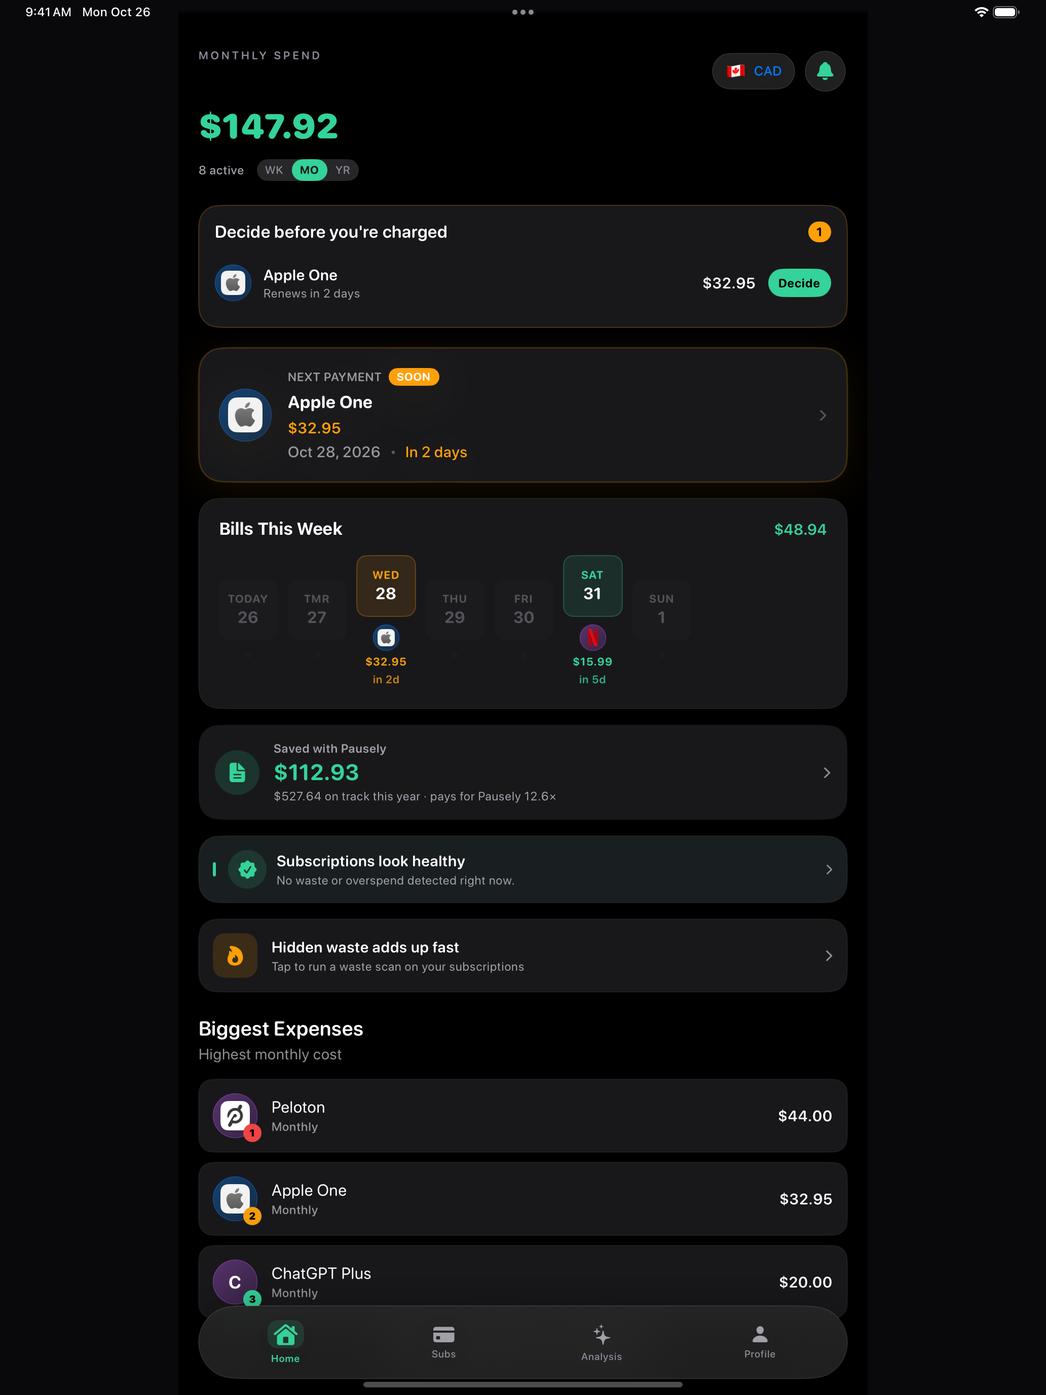
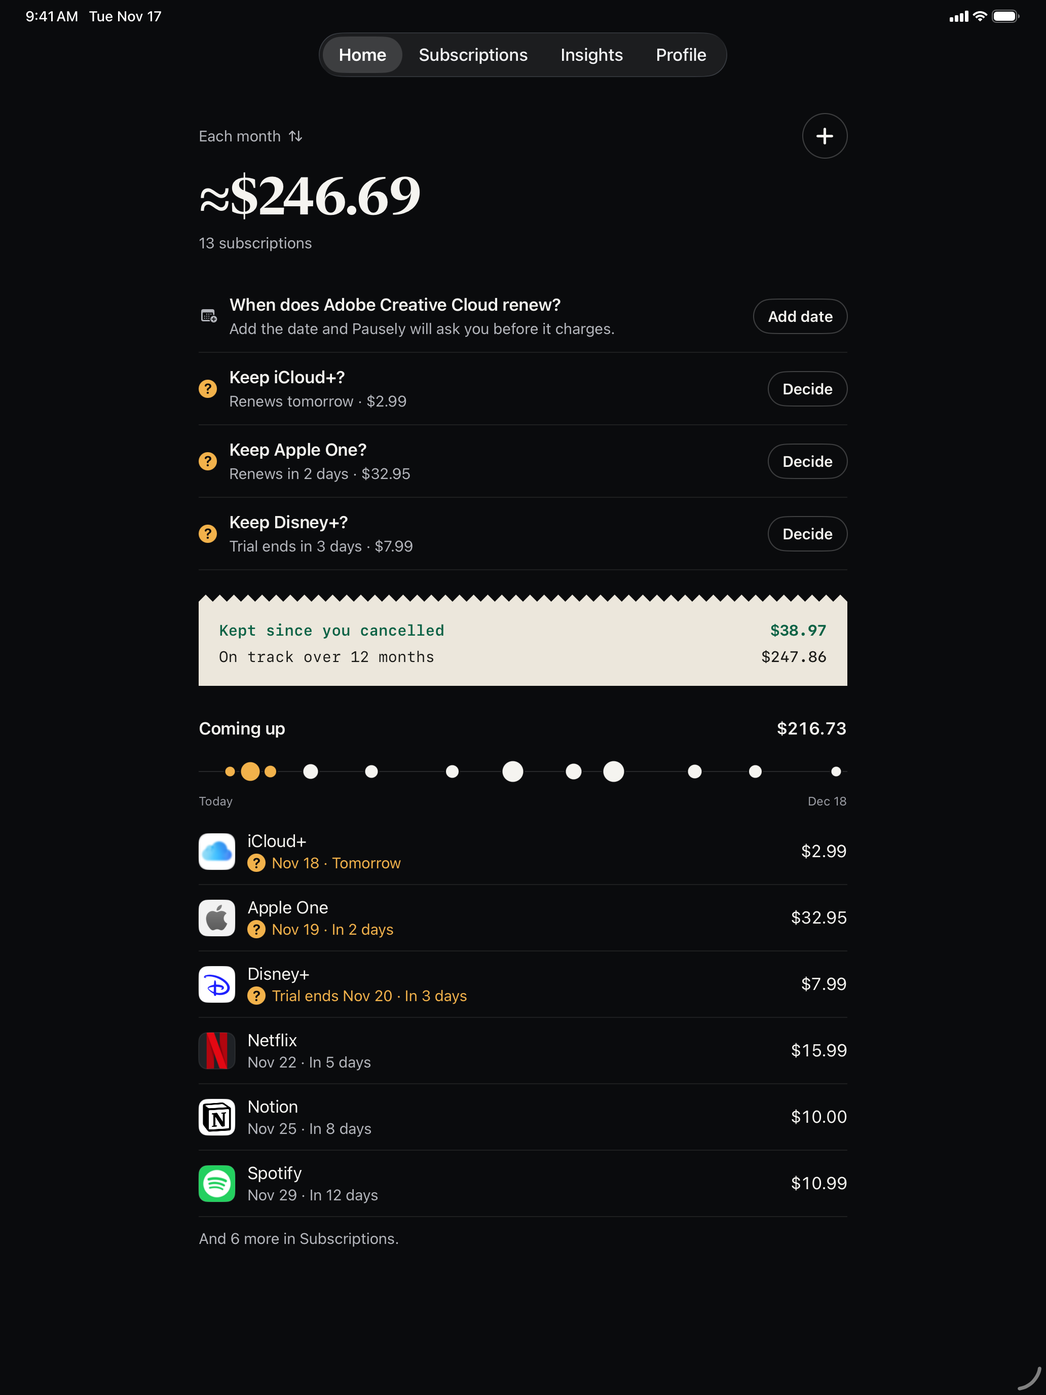
The sixteen pictures for the App Store are of the app as it is: one capture test takes them, and a capture run shows nothing the release build lacks

diff --git a/PauselyTests/Services/StoreListingTests.swift b/PauselyTests/Services/StoreListingTests.swift
@@ -173,4 +173,34 @@ final class StoreListingTests: XCTestCase {
             }
         }
     }
+
+    /// The eight pictures on the listing are captures of a debug build, which has what the
+    /// release build has not: finding subscriptions in email. A capture run (`--screenshots`)
+    /// switches that off, so no picture shows a way in that a customer will not find; the tour's
+    /// capture test takes every picture in such a run, of one list. (The pictures in the
+    /// repository until 2026-11-17 were of the design before this one.)
+    func testAPictureForTheStoreShowsOnlyWhatTheReleaseBuildShows() throws {
+        // Unit tests are not a capture run: in a debug build the features are there to be tested.
+        #if DEBUG
+        XCTAssertFalse(LaunchFlag.screenshots.isSet)
+        XCTAssertTrue(FeatureFlags.inboxImportEnabled)
+        #endif
+        let flags = try String(contentsOf: root.appendingPathComponent("Pausely/Core/FeatureFlags.swift"), encoding: .utf8)
+        XCTAssertTrue(flags.contains("#if DEBUG\n        return !LaunchFlag.screenshots.isSet\n        #else\n        return false\n        #endif"))
+        for flag in ["gmailImportEnabled", "microsoftImportEnabled", "imapImportEnabled"] {
+            XCTAssertTrue(flags.contains("static let \(flag) = onInDebugBuilds"), flag)
+        }
+        let tour = try String(contentsOf: root.appendingPathComponent("PauselyUITests/ScreenTourTests.swift"), encoding: .utf8)
+        let capture = try XCTUnwrap(tour.range(of: "func testStoreScreenshots() throws {"))
+        let body = String(tour[capture.upperBound...].prefix(1400))
+        XCTAssertTrue(body.contains("[\"--uitesting\", \"--demo-mode\", \"--screenshots\", \"--varied-demo-data\"] + screen.flags"))
+        // And the pictures are the eight the listing has places for, on both devices.
+        let names = ["01_verdict", "02_dashboard", "03_receipt", "04_pauseplan", "05_subscription", "06_analysis", "07_catalog", "08_wrapped"]
+        for name in names { XCTAssertTrue(body.contains("\"\(name)\""), name) }
+        for device in ["iphone-6.9", "ipad-13"] {
+            let folder = root.appendingPathComponent("AppStoreScreenshots/\(device)")
+            let files = try FileManager.default.contentsOfDirectory(atPath: folder.path).filter { $0.hasSuffix(".png") }.sorted()
+            XCTAssertEqual(files, names.map { $0 + ".png" }, device)
+        }
+    }
 }

diff --git a/PauselyUITests/ScreenTourTests.swift b/PauselyUITests/ScreenTourTests.swift
@@ -212,6 +212,35 @@ final class ScreenTourTests: XCTestCase {
     /// "Keep my list" is the end of the page at the largest text size.
     private static let followedToTheEnd: Set<String> = ["inbox-results", "reveal-good"]
 
+    /// The eight App Store captures, as files named the way `AppStoreScreenshots/` holds them.
+    /// Run on the 6.9-inch iPhone and the 13-inch iPad with `PAUSELY_TOUR_DIR` set, then copy the
+    /// eight files over. Every screen is of one list (the varied one), so the figures on one
+    /// capture are the figures on the next, and each is launched with `--screenshots`: no
+    /// one-time permission card, and no feature the release build does not have. The formats are
+    /// Canada's, as the listing's first captures were; the clock is set from outside
+    /// (`xcrun simctl status_bar <device> override --time 9:41 …`) once the simulator is up.
+    func testStoreScreenshots() throws {
+        let screens: [(flags: [String], file: String)] = [
+            (["--demo-verdict=Netflix"], "01_verdict"),
+            (["--demo-tab=0"], "02_dashboard"),
+            (["--demo-receipt=plain"], "03_receipt"),
+            (["--demo-pause-plan"], "04_pauseplan"),
+            (["--demo-subscription=Netflix"], "05_subscription"),
+            (["--demo-tab=2"], "06_analysis"),
+            (["--demo-browser"], "07_catalog"),
+            (["--demo-wrapped=list"], "08_wrapped"),
+        ]
+        for screen in screens where wanted(screen.file) {
+            let app = XCUIApplication()
+            app.launchArguments = ["--uitesting", "--demo-mode", "--screenshots", "--varied-demo-data"] + screen.flags
+                + ["-AppleLanguages", "(en)", "-AppleLocale", "en_CA"]
+            app.launch()
+            sleep(4)
+            let png = XCUIScreen.main.screenshot().pngRepresentation
+            try png.write(to: outputDir.appendingPathComponent(screen.file + ".png"))
+        }
+    }
+
     /// States no launch argument opens by itself: rows that depend on what is in the list, dialogs, a
     /// search with no match, the sheets behind a row. Each is opened here and captured like a screen.
     /// Nothing here reaches the network: sign-in, codes and purchases are left to their own tests.

diff --git a/Pausely/Core/FeatureFlags.swift b/Pausely/Core/FeatureFlags.swift
@@ -6,33 +6,26 @@ enum FeatureFlags {
     /// Until that arrives, release builds hide every entry point (an App Review tester would hit Google's
     /// "unverified app" wall). Debug builds keep it on for development and the demo launch flags.
     /// To ship it: set this to `true` once Google has approved the app.
-    static let gmailImportEnabled: Bool = {
-        #if DEBUG
-        return true
-        #else
-        return false
-        #endif
-    }()
+    static let gmailImportEnabled = onInDebugBuilds
 
     /// Outlook, Hotmail, Live, MSN and Microsoft 365 through Microsoft Graph. Needs the app registration's
     /// client id (Info.plist MS_CLIENT_ID). Release builds stay off until real-account checks pass.
-    static let microsoftImportEnabled: Bool = {
-        #if DEBUG
-        return true
-        #else
-        return false
-        #endif
-    }()
+    static let microsoftImportEnabled = onInDebugBuilds
 
     /// iCloud, Yahoo, AOL, Gmail (app password), GMX, WEB.DE, Zoho, Fastmail and other IMAP inboxes.
     /// Release builds stay off until real-account checks pass.
-    static let imapImportEnabled: Bool = {
+    static let imapImportEnabled = onInDebugBuilds
+
+    /// On in debug builds, for development and the demo launch flags; off in release. Off in a
+    /// debug build too while App Store captures are taken (`--screenshots`): a capture shows what
+    /// the release build shows, and nothing it lacks.
+    private static var onInDebugBuilds: Bool {
         #if DEBUG
-        return true
+        return !LaunchFlag.screenshots.isSet
         #else
         return false
         #endif
-    }()
+    }
 
     /// Any way of finding subscriptions in email is available.
     static var inboxImportEnabled: Bool { gmailImportEnabled || microsoftImportEnabled || imapImportEnabled }

diff --git a/GOLD_STANDARD.md b/GOLD_STANDARD.md
@@ -1101,6 +1101,11 @@ Updated at every commit, so the work can be picked up from this file alone.
   from now on are a new install's too.
   Next, in order: the store captures into the repository; three serial runs, Release, the
   rigs; H written up; section 7.
+- **11-17 early morning, the store pictures (this commit).** Row opened and closed in 6.5.
+  The sixteen files in `AppStoreScreenshots/` are replaced; nothing was sent to App Store
+  Connect.
+  Next, in order: three serial runs, Release, the UI tests, the mail rig, the database
+  rigs; one more English tour with the audit on this build; H written up; section 7.
 
 **Phase 0. Scan (read-only).** Four independent audits (dead code, truth, design rules on every
 view, engineering) plus mechanical scans. Output: the ledger.
@@ -1400,6 +1405,7 @@ and limits) is O37 and nothing else was found.
 | In a mailbox's results each row chose by the width of its own price whether the price sat beside the words or under them: in German, Spanish, French and Arabic "34,99 CA$" went under and "9,99 CA$" stayed beside, row by row, and the prices formed no column (seen 11-16 on the Arabic states and on the German, Spanish and French tours) | closed 11-16. Every row sets its price over a copy of the page's widest price that is not drawn (`FoundRow.widestPrice`, passed by the page from everything found), so the column is as wide in every row; a column wider than its share goes under the words in every row, a short name included (`LineOrStack.stacksWideValue`). A cancelled row keeps the box's place empty, so its logo lines up with the rows above and it has the same width for its price. Held by `testEveryFoundRowKeepsTheSamePriceColumn` (by its own width three German prices chose stack, beside, stack; with one column all three stack, and a column within its share stays beside for all). **Seen** (`/tmp/pausely_col1_en`, `_de`, `_ar`, `_es`, sheets `col1`, `col1b`, the page followed to its end): English, every price beside its words in one column; German, Spanish and Arabic, every price under its words; the cancelled row in line with the rest in all four. 810 unit tests, 0 failures (7 skipped need a mail server); `gold_check` 0 |
 | Profile → Privacy & security makes four statements, and no test tied any of them to the build (found 11-16 on the sceptic's walk; the website's policy had such tests, the page in the app had none) | closed 11-17: `PrivacyPageTests`, four tests. **The list is sent encrypted, kept encrypted, and read by its owner only:** one server address, https in both configurations, on the host whose own statement the sentence repeats (supabase.com/security, read 11-16: "All customer data is encrypted at rest with AES-256 and in transit via TLS"), no exception to App Transport Security in the project, and the six checks of the database rig that the sentence leans on, by name. **History, the receipt and the plan stay on the device:** the only tables the app names are `subscriptions` and `profiles`, the only call `delete_my_account`, the only function `apple-revoke`; the history and the plan are files written through the one place that sets their protection, and nothing lowers a file's protection to none. **Find in Email** is said only where the feature is. **No ad or tracking SDKs:** the seven packages the app is built with, by name (the database client and what it is built on), and every framework any source file imports (Apple's own and that client): a new package or framework fails the test until it is named there. 810 unit tests, 0 failures (7 skipped need a mail server) |
 | Two wordings a native reader would have caught, found by reading the Spanish and French tours (11-16). On the Savings Receipt: "Résilié le 2 nov. 2026 · 1 prélèvements évités sur 12" (two figures beside a noun need a plural pair in every language, and the line had none; a yearly plan read "1 of 1 charges" in English). On the Notifications page in Spanish: "Actívalas" for "los recordatorios" | closed 11-17. The receipt gives each cancellation three lines of the roll: "Cancelled on Nov 2, 2026", "Charges avoided so far: 1 of 12" (what is counted, then the count, which no language has to bend), "Next avoided charge: …". Joined by a dot, the first two were too long for the roll in every language and broke wherever the line ran out, so they are two lines at every size. Held by `testTheReceiptsCountIsALabelThenANumber` (in the six languages both figures come after the colon, none before a noun). Spanish reads "Actívalos"; every Spanish sentence about reminders was read again and agrees. **Seen** (`/tmp/pausely_rc2_en`, `_fr`, `_ar`, `_big`, `_ipad`, sheet `rc2`; `/tmp/pausely_rc1_es` for the Notifications page, sheet `rc1`): the three lines in English, French ("Prélèvements évités à ce jour : 1 sur 12"), Arabic, at the largest size and on iPad; "Actívalos para que las renovaciones nunca te sorprendan." The catalog was searched for every other counted sentence without plural forms (24): each is a label and a number, a fixed figure, or "n of m" with no noun. 811 unit tests, 0 failures (7 skipped need a mail server); `gold_check` 0; `string_usage` 0 |
+| The sixteen pictures for the App Store in the repository were of the design before this one (mint totals, "Subscription Health 80/100", "Free alternative: Tubi", "443 coffees", "Search 1,000+ services"): they showed four things the app no longer has. Found 11-17, opening them for stage I | closed 11-17 in the repository; sending them to App Store Connect is the owner's step. `ScreenTourTests/testStoreScreenshots` takes the eight on any simulator: the verdict with hours typed in, Home, the Savings Receipt, Pause Plan, a subscription's page, Insights, the catalog, the year. All eight are of one list (13 subscriptions, ≈$246.69 a month, $38.97 kept), in Canada's formats, each launched with `--screenshots`. A capture run switches off what the release build does not have (`FeatureFlags`, off under `--screenshots` in a debug build), so the catalog's picture has no "Find in Email" row. Held by `testAPictureForTheStoreShowsOnlyWhatTheReleaseBuildShows` (the flags, the capture test's launch, and the eight file names on both devices). **Taken and opened** (sheets `store4i`, `store4p`): iPhone 17 Pro Max, 1320 by 2868; iPad Pro 13-inch (M5), 2064 by 2752 (the M4 simulator here is on iOS 18.0 and cannot take this build's test runner); the clock at 9:41; each device after a first pass that fetched the logos, the iPad's month-old logo cache moved aside first, so both show what a new install in Canada shows (Hulu is a letter there: its site sends a visitor from Canada to another company's page). 813 unit tests, 0 failures |
 | On a simulator that had never run the app, the first screen that shows logos showed a letter for YouTube Premium, Google One and PlayStation Plus, and the catalog for Notion, Hulu and Duolingo (found 11-17 taking the store captures on a new simulator; the simulators the tours use had those icons on disk from before 11-11, when a lookup service was still asked). Their sites keep no icon at the three usual addresses | closed 11-17 for what the services' own sites allow. The table of sites carries, for six services, the address where the site keeps its icon (`ServiceDomains.iconAddresses`: YouTube, Google, PlayStation, Discord, Notion, Duolingo), each asked for and answered with an image of 128 pixels or more on 11-17, and asked first. Five are on the service's own domain; Duolingo's is the host its own front page names for its touch icon, listed as the one exception (`assetHosts`). Notion's site is notion.com now. Held by `testAnIconKeptElsewhereIsAskedForFirstAndOnlyOnTheServicesOwnSite` (https; on the service's domain or its named host; first of four sources), and by the app itself: an address in the table that is not on the service's own site is never asked (`ServiceDomains.isOwnSite`, the same rule the test reads). **Seen on the new simulator** (`/tmp/pausely_fresh2`, sheet `fresh2`; its cache folder lists what was fetched): the fifteen first-run tiles on the first screen all have their logo; of the twenty-two, nineteen do. **Still a letter, and why:** Crunchyroll (its site refuses anything that is not a browser), Dropbox (a 32-pixel favicon only), and from Canada Hulu and Peacock (their sites send a visitor here to another company's page or to "unavailable"). The letter is what the app shows by design where a site has no usable icon; bundling those logos in the app is the owner's call (6.7). 813 unit tests, 0 failures before Duolingo was added; the three classes that touch it green after |
 | Per-file findings (colour, type, layout, Dynamic Type, right to left, VoiceOver, motion, haptics, states) in `ui.md`, about 280 of them | closed 11-12, each finding looked up in today's code. **Already held by a script or a test from earlier slices:** colours outside the palette, fixed font sizes, numeric radii, raw animation curves and left/right (lints in `gold_check`), formats in another locale, plural forms, one name per thing, sentence case, "iPhone" on iPad, one way to leave, Reduce Motion, the state mark that did not grow, strings that were English only, raw errors in the edit form; the widgets were rebuilt (S15) and the Live Activity, the in-app policies, the rating sheet and the deep analysis no longer exist. **Found still open and fixed in this slice:** Home had no header for VoiceOver, a 32-point switch, a line that could only be dragged (it is stepped with VoiceOver now, `testTheLineCanBeSteppedOneChargeDayAtATime`, and is a fingertip tall), rows that dimmed to under 3 to 1, a loading label attached to nothing, and "Nothing on your list yet." after a fetch that failed (`testAListThatCouldNotLoadIsNotCalledEmpty`; the three tabs share the loading and could-not-load parts); list rows were tap gestures with no press (buttons now, and they tick like Home's); three search fields became one part and two no-match sentences one; the catalog offers only categories that hold a service; four copies of the problem line and three bare coral lines became `ProblemLine`; the add form put a system alert titled "Error" where the edit form says what is missing; its amount question vanished for four billing cycles; four negative paddings; eighteen spacings off the 2-point grid (now a lint); the pause mark drawn five times in three proportions; the shared pictures drawn outside the app's language and direction (`testASharedPictureIsDrawnInTheAppsLanguage`) and re-drawn on every pass; "Rate Pausely" asked iOS for a prompt it rarely shows (`testRatePauselyOpensTheReviewForm`); VoiceOver hints that said "double tap"; first-run slip lines 28 points tall, a price sheet with no Cancel, tiles that did not say the price they add; an address cut in the middle (`testAnAddressBreaksOnlyWhereItsPartsMeet`); a resend timer that ticked for ever (`testTheResendLineStopsTickingWhenTheWaitIsOver`); reset and new-password fields with no name above them; "Done" on a page that saves with its own button; "Cost over time" not said to be at today's price; a bar of the billing period that helped nobody decide (removed with `CancelTimingCalculator`); the Pause Plan row on Insights (an icon in a circle, caption-size words, its own indent) rebuilt; the feature's name under its description on the subscription screen; a price drop printed in mint; the torn half of a slip placed by a fixed number; two sentences joined with a space in Japanese (`testSentencesAreJoinedAsTheLanguageWritesThem`). **Kept as they are, with the reason:** the serif sets a slip's question and the price it is about (one unit), and each screen's name; what is printed on a slip is in the slip's face, sentences included; a list of destinations has a symbol per row (Profile, a subscription's tools) and a list of values has none; an underline marks a text link, the one way a link is marked; a caption directly under a full-width button is centred with it; an amount shrinks before it breaks; pickers, date pickers, switches and the alerts for a purchase and for deleting an account are left as iOS draws them; a button that opens a page does not tick, a row or a choice does; the verdict keeps both "Close" (where every screen's way out is) and "Decide later" (the third answer); the stamp is in capitals; a short sheet over a screen is raised grey so its edge can be seen; Pause Plan's estimate and the cost per hour are on paper because both are sums of the person's own figures, and the estimate says "about" and what it assumes; the yearly plan is chosen first and its charge is the largest price on the slip. **In Find in Email (which the release build does not show) the same pass fixed:** the privacy promise was on paper (paper is for money decided or proven); a connected address was cut in the middle; the landing was felt when nothing had landed; a tap on Gmail or Outlook showed nothing until the web sheet came and took a second tap; and the demo's inbox was searched, which wiped the demo's findings, so the tour's "results" capture had been the first page (`testTheDemosInboxIsNeverSearched`). Kept there, with the reason: the system's progress bar in the app's tint; an envelope for "Other email", which has no logo; the mail server's own words after "Couldn't reach the mail server.", because they say what to fix; two counts written as label and number, so that six languages need no plural pair **Found by reading this slice's own captures and its audit (English, 11-12 night):** Apple's audit reported every text inside a `ViewThatFits` as text that cannot grow (85 lines on Profile alone, the subscription's status line, both outcome slips), because the copy it measured is not the one drawn at the next size; all four uses are gone (`LineOrStack`, one layout that puts its parts on a line when they fit and stacks them when they do not; the outcome screen is one scroll view as tall as the screen; `testNoScreenIsBuiltTwiceToSeeWhichFits`, `testPartsShareALineOnlyWhenTheyFit`), and the count on the states captured again went from 110 to 8. The letter that stands in for a logo is drawn, not set as text. An amount being typed is drawn in the largest size that shows all of it (`AmountFit`, `testALongAmountIsDrawnSmallerSoAllOfItShows`). No field is named inside its box (the name was gone at the first letter, and iOS draws it smaller at the largest sizes): the account forms lost their examples, the inbox form gained "Email", "App password", "IMAP server" and "Port" above its boxes, and the password rules are listed under the box from the start (`testAFieldIsNamedAboveItsBoxNotInsideIt`). The price sheet is as tall as its form (344 points left a band of nothing under Save; `testThePriceSheetIsAsTallAsItsForm`). What's New had its margin outside its scroll view. A name field that wraps kept the line count of another text size and left the edit screen's header 67 points too tall (`testAWrappingFieldIsMeasuredAgainWhenTheTextSizeChanges`). At the largest ordinary text size, which no pass had looked at, the paywall's pinned bar held the button, its sentence and three stacked links and covered half the screen; where the button is pinned the links now end the page (`testThePaywallsPinnedBarHoldsOnlyTheButtonAndItsTerms`). On the paywall, with no prices from the App Store, the plans and the slip give way to one sentence and "Try again" (`testThePaywallSaysWhetherItHasPrices`). |
 | The largest ordinary text size (`xxxl`), which no pass had looked at: rows are still side by side there, with a third more text in them | closed 11-12 night for what was read (`/tmp/pausely_states_xxxl_1` to `_xxxl_3`: the verdict and both outcomes, the cancel steps, the receipt, the year slip, Pause Plan, the paywall, the catalog, both add forms, the subscription screen, Home, Subscriptions and Insights with the varied and the large list, Profile, the account forms, the inbox screens, the settings pages); the whole tour at this size is part of E5. **Found and fixed:** a price in a list row broke between its currency and its figure ("IDR" above "8,500,000") on Subscriptions and on Home: the price sits beside the name while it takes no more than half the row and goes under it when it is wider, and it is never squeezed (`LineOrStack`'s label-and-value arrangement, `testAValueKeepsItsPlaceOrGoesUnderItsLabelAndIsNeverSqueezed`); receipt lines whose two halves each broke in the middle ("Most / goes to" beside "Health / & fitness") follow the same rule (an amount keeps its column and the label wraps beside it; a long value goes under its label); a row's second line ended "Nov 24 · In" with "12 days" under it: a date and its distance are kept whole and the line breaks after the dot (`L10n.whole`, `L10n.breakingAfterDots`, `testADateAndItsDistanceBreakOnlyAfterTheDot`); the inbox's found row cut "Last charged Nov 9" to "Last charge…" (it follows the same rule as the list rows now: the price keeps its width eight points from the words, and the words wrap); Pause Plan's slip had one long value ("$11.32 a month on average"): "on average" is part of the label and the figure stands in the amounts' column; the paywall's pinned bar (in the row above). Read again after the fixes at the ordinary size in English and in Arabic (`/tmp/pausely_states_en_13`, `/tmp/pausely_states_ar_3`, `/tmp/pausely_states_row_en`, `_row_xxxl`): the rows are as they were where everything fits, and the layout mirrors in Arabic (the price at the left, the label wrapping at the right) |

diff --git a/CLAUDE.md b/CLAUDE.md
@@ -181,7 +181,7 @@ function against stand-ins. All need Docker (Colima works). A new migration goes
 ## App Store
 
 Listing text in `metadata/` (push with `asc metadata push`), screenshots in
-`AppStoreScreenshots/iphone-6.9` and `AppStoreScreenshots/ipad-13` (captured in the `en_CA` locale), products and review notes in `appstore_products.json`,
+`AppStoreScreenshots/iphone-6.9` and `AppStoreScreenshots/ipad-13` (taken by `ScreenTourTests/testStoreScreenshots` on the 6.9-inch iPhone and the 13-inch iPad simulators, in the `en_CA` locale, with `PAUSELY_TOUR_DIR` set; the clock is set with `xcrun simctl status_bar <device> override --time 9:41`), products and review notes in `appstore_products.json`,
 `scripts/asc_apply.sh` for pricing and subscription text. Never submit for review without the
 owner's explicit go-ahead.
 
